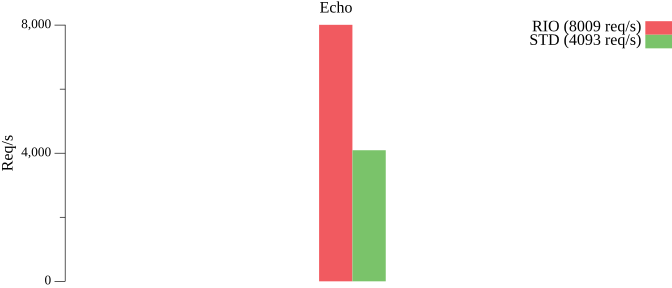
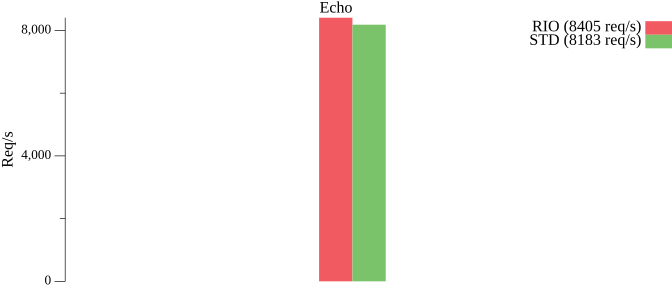
mod

diff --git a/benchmark/echo-std/bench/main.go b/benchmark/echo-std/bench/main.go
@@ -14,14 +14,7 @@ func main() {
 		Workers: 5
 		Count: 2000
 		NBytes: 1024
-		ECHO-STD benching complete(867.037334ms): 6930 conn/sec, 6.8M inbounds/sec, 6.8M outbounds/sec, 0 failures
-
-
-		Port: 9000
-		Workers: 10
-		Count: 5000
-		NBytes: 1024
-		ECHO-STD benching complete(364.630509ms): 4088 conn/sec, 4M inbounds/sec, 4M outbounds/sec, 0 failures
+		ECHO-STD benching complete(1.280013825s): 7940 conn/sec, 7.8M inbounds/sec, 7.8M outbounds/sec, 0 failures
 	*/
 	var (
 		port    int

diff --git a/benchmark/echo-rio/bench/main.go b/benchmark/echo-rio/bench/main.go
@@ -14,13 +14,7 @@ func main() {
 		Workers: 5
 		Count: 2000
 		NBytes: 1024
-		ECHO-RIO benching complete(1.423717741s): 8186 conn/sec, 8M inbounds/sec, 8M outbounds/sec, 0 failures
-
-		Port: 9000
-		Workers: 10
-		Count: 5000
-		NBytes: 1024
-		ECHO-RIO benching complete(975.296993ms): 8099 conn/sec, 7.9M inbounds/sec, 7.9M outbounds/sec, 0 failures
+		ECHO-RIO benching complete(1.851019125s): 8907 conn/sec, 8.7M inbounds/sec, 8.7M outbounds/sec, 0 failures
 	*/
 	var (
 		port    int

diff --git a/benchmark/http-rio/http.go b/benchmark/http-rio/http.go
@@ -92,7 +92,8 @@ func dial(workers int, count int, port int, nBytes int) {
 			for j := 0; j < count; j++ {
 				resp, postErr := http.Post(fmt.Sprintf("http://127.0.0.1:%d", port), "application/text", bytes.NewBuffer(b))
 				if postErr != nil {
-					return
+					time.Sleep(10 * time.Microsecond)
+					continue
 				}
 				_ = resp.Body.Close()
 			}

diff --git a/benchmark/http-std/http.go b/benchmark/http-std/http.go
@@ -91,7 +91,8 @@ func dial(workers int, count int, port int, nBytes int) {
 			for j := 0; j < count; j++ {
 				resp, postErr := http.Post(fmt.Sprintf("http://127.0.0.1:%d", port), "application/text", bytes.NewBuffer(b))
 				if postErr != nil {
-					return
+					time.Sleep(10 * time.Microsecond)
+					continue
 				}
 				_ = resp.Body.Close()
 			}

diff --git a/benchmark/echo-rio/echo.go b/benchmark/echo-rio/echo.go
@@ -96,7 +96,8 @@ func dial(workers int, count int, port int, nBytes int) {
 			for j := 0; j < count; j++ {
 				conn, err := net.Dial("tcp", fmt.Sprintf("127.0.0.1:%d", port))
 				if err != nil {
-					return
+					time.Sleep(10 * time.Microsecond)
+					continue
 				}
 				remain := len(b)
 				for remain > 0 {

diff --git a/benchmark/echo-std/echo.go b/benchmark/echo-std/echo.go
@@ -94,7 +94,8 @@ func dial(workers int, count int, port int, nBytes int) {
 			for j := 0; j < count; j++ {
 				conn, err := net.Dial("tcp", fmt.Sprintf("127.0.0.1:%d", port))
 				if err != nil {
-					return
+					time.Sleep(10 * time.Microsecond)
+					continue
 				}
 				remain := len(b)
 				for remain > 0 {

diff --git a/benchmark/main.go b/benchmark/main.go
@@ -26,7 +26,7 @@ func main() {
 	)
 
 	flag.IntVar(&port, "port", 9000, "server port")
-	flag.IntVar(&workers, "workers", 10, "workers")
+	flag.IntVar(&workers, "workers", 5, "workers")
 	flag.IntVar(&count, "count", 2000, "count")
 	flag.IntVar(&nBytes, "nBytes", 1024, "nBytes")
 	flag.Parse()

diff --git a/benchmark/echo-rio/settings_linux.go b/benchmark/echo-rio/settings_linux.go
@@ -2,5 +2,4 @@
 
 package echorio
 
-func setting() {
-}
+func setting() {}
